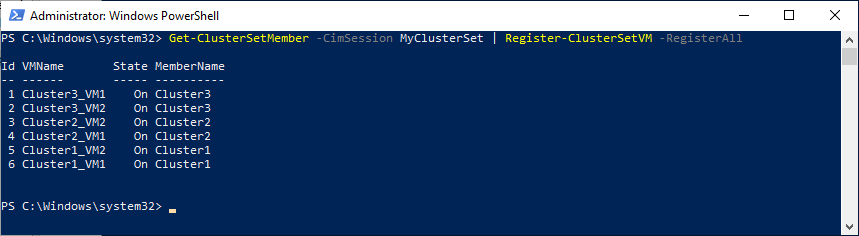
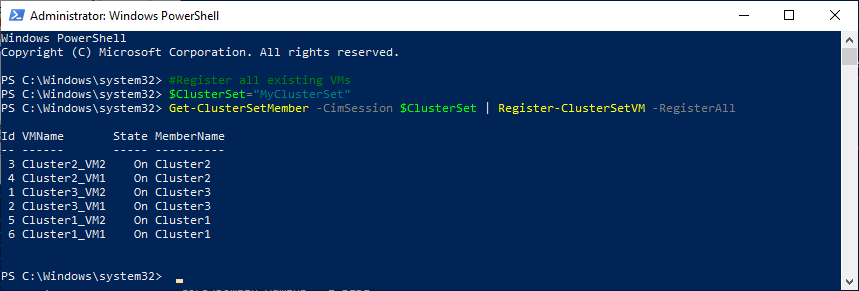
fix
Former-commit-id: d05cb51a108ba8fbc9d7df640c61561d41b1263c

diff --git a/Scenarios/S2D and Cluster Sets/readme.md b/Scenarios/S2D and Cluster Sets/readme.md
@@ -120,22 +120,24 @@ Run following code to create 3 HyperConverged clusters. Note: it's way simplifie
     }
 
 #Create 1 VM on each Volume
-    Foreach ($Cluster in $clusters){
-        $VMName="$($Cluster.Name)_VM1"
-        $VolumeName=$Cluster.VolumeNames[0]
-        New-Item -Path "\\$($Cluster.Name)\ClusterStorage$\$VolumeName\$VMName\Virtual Hard Disks" -ItemType Directory
-        Copy-Item -Path $VHDPath -Destination "\\$($Cluster.Name)\ClusterStorage$\$VolumeName\$VMName\Virtual Hard Disks\$($VMName)_Disk1.vhdx"
-        New-VM -Name $VMName -MemoryStartupBytes 256MB -Generation 2 -Path "c:\ClusterStorage\$VolumeName" -VHDPath "c:\ClusterStorage\$VolumeName\$VMName\Virtual Hard Disks\$($VMName)_Disk1.vhdx" -ComputerName $Cluster.Nodes[0]
-        Start-VM -name $VMName -ComputerName $Cluster.Nodes[0]
-        Add-ClusterVirtualMachineRole -VMName $VMName -Cluster $Cluster.Name
-
-        $VMName="$($Cluster.Name)_VM2"
-        $VolumeName=$Cluster.VolumeNames[1]
-        New-Item -Path "\\$($Cluster.Name)\ClusterStorage$\$VolumeName\$VMName\Virtual Hard Disks" -ItemType Directory
-        Copy-Item -Path $VHDPath -Destination "\\$($Cluster.Name)\ClusterStorage$\$VolumeName\$VMName\Virtual Hard Disks\$($VMName)_Disk1.vhdx"
-        New-VM -Name $VMName -MemoryStartupBytes 256MB -Generation 2 -Path "c:\ClusterStorage\$VolumeName" -VHDPath "c:\ClusterStorage\$VolumeName\$VMName\Virtual Hard Disks\$($VMName)_Disk1.vhdx" -ComputerName $Cluster.Nodes[1]
-        Start-VM -name $VMName -ComputerName $Cluster.Nodes[1]
-        Add-ClusterVirtualMachineRole -VMName $VMName -Cluster $Cluster.Name
+    if ($VHDPath){
+        Foreach ($Cluster in $clusters){
+            $VMName="$($Cluster.Name)_VM1"
+            $VolumeName=$Cluster.VolumeNames[0]
+            New-Item -Path "\\$($Cluster.Name)\ClusterStorage$\$VolumeName\$VMName\Virtual Hard Disks" -ItemType Directory
+            Copy-Item -Path $VHDPath -Destination "\\$($Cluster.Name)\ClusterStorage$\$VolumeName\$VMName\Virtual Hard Disks\$($VMName)_Disk1.vhdx"
+            New-VM -Name $VMName -MemoryStartupBytes 256MB -Generation 2 -Path "c:\ClusterStorage\$VolumeName" -VHDPath "c:\ClusterStorage\$VolumeName\$VMName\Virtual Hard Disks\$($VMName)_Disk1.vhdx" -ComputerName $Cluster.Nodes[0]
+            Start-VM -name $VMName -ComputerName $Cluster.Nodes[0]
+            Add-ClusterVirtualMachineRole -VMName $VMName -Cluster $Cluster.Name
+    
+            $VMName="$($Cluster.Name)_VM2"
+            $VolumeName=$Cluster.VolumeNames[1]
+            New-Item -Path "\\$($Cluster.Name)\ClusterStorage$\$VolumeName\$VMName\Virtual Hard Disks" -ItemType Directory
+            Copy-Item -Path $VHDPath -Destination "\\$($Cluster.Name)\ClusterStorage$\$VolumeName\$VMName\Virtual Hard Disks\$($VMName)_Disk1.vhdx"
+            New-VM -Name $VMName -MemoryStartupBytes 256MB -Generation 2 -Path "c:\ClusterStorage\$VolumeName" -VHDPath "c:\ClusterStorage\$VolumeName\$VMName\Virtual Hard Disks\$($VMName)_Disk1.vhdx" -ComputerName $Cluster.Nodes[1]
+            Start-VM -name $VMName -ComputerName $Cluster.Nodes[1]
+            Add-ClusterVirtualMachineRole -VMName $VMName -Cluster $Cluster.Name
+        }
     }
  
 ````
@@ -196,7 +198,7 @@ New-Cluster -Name $ClusterName -Node $ClusterNodes -StaticAddress $ClusterIP
 
 ![](/Scenarios/S2D%20and%20Cluster%20Sets/Screenshots/MgmtClusterCreated.png)
 
-And then we will create Cluster Set Master on "MgmtCluster"
+And now let's create Cluster Set Master on "MgmtCluster"
 
 ````PowerShell
 New-ClusterSet -name "MyClusterSet" -NamespaceRoot "MC-SOFS" -CimSession "MgmtCluster" -StaticAddress "10.0.0.221"
@@ -249,13 +251,15 @@ get-clustersetmember -CimSession MyClusterSet
 Now we will move all VM's to cluster set namespace. Since Storage Live Migration does not work as files already exist in destination, we can either move files to another volume or unregister and register again with following trick.
 
 ````PowerShell
+    $ClusterSet="MyClusterSet"
+    $ClusterSetSOFS="\\MC-SOFS"
 #Grab all VMs from all nodes
-    $VMs=Get-VM -CimSession (Get-ClusterSetNode -CimSession MyClusterSet).Name
+    $VMs=Get-VM -CimSession (Get-ClusterSetNode -CimSession $ClusterSet).Name
 
 <# does not work
 #perform storage migration to \\MC-SOFS
 foreach ($VM in $VMs){
-    $NewPath=($vm.path).Replace("c:\ClusterStorage\","\\MC-SOFS\")
+    $NewPath=($vm.path).Replace("c:\ClusterStorage\",$ClusterSetSOFS)
     $VM | Move-VMStorage -DestinationStoragePath $NewPath
 }
 #>
@@ -281,15 +285,15 @@ foreach ($VM in $VMs){
     }
 
 #Import again, but replace path to \\MC-SOFS
-    Invoke-Command -ComputerName (get-clustersetmember -CimSession MyClusterSet).ClusterName -ScriptBlock{
+    Invoke-Command -ComputerName (get-clustersetmember -CimSession $ClusterSet).ClusterName -ScriptBlock{
         get-childitem c:\ClusterStorage -Recurse | Where-Object {($_.extension -eq '.vmcx' -and $_.directory -like '*Virtual Machines*') -or ($_.extension -eq '.xml' -and $_.directory -like '*Virtual Machines*')} | ForEach-Object -Process {
-            $Path=$_.FullName.Replace("C:\ClusterStorage\","\\MC-SOFS\")
+            $Path=$_.FullName.Replace("C:\ClusterStorage",$using:ClusterSetSOFS)
             Import-VM -Path $Path
         }
     }
 
 #Add VMs as Highly available and Start
-    $ClusterSetNodes=Get-ClusterSetNode -CimSession MyClusterSet
+    $ClusterSetNodes=Get-ClusterSetNode -CimSession $ClusterSet
     foreach ($ClusterSetNode in $ClusterSetNodes){
         $VMs=Get-VM -CimSession $ClusterSetNode.Name
         $VMs.Name | ForEach-Object {Add-ClusterVirtualMachineRole -VMName $_ -Cluster $ClusterSetNode.Member}
@@ -346,7 +350,6 @@ Result (on each node)
 
 ![](/Scenarios/S2D%20and%20Cluster%20Sets/Screenshots/DelegationSet.png)
 
-
 ### add Management cluster computer account to each node local Administrators group
 
 And the last step is to add MyClusterSet machine account into local admin group.
@@ -374,7 +377,9 @@ Invoke-Command -ComputerName (Get-ClusterSetNode -CimSession $ClusterSet).Name -
 ### Register all existing VMs
 
 ````PowerShell
-Get-ClusterSetMember -CimSession MyClusterSet | Register-ClusterSetVM -RegisterAll -CimSession <Cluster_Set_name>
+#Register all existing VMs
+$ClusterSet="MyClusterSet"
+Get-ClusterSetMember -CimSession $ClusterSet | Register-ClusterSetVM -RegisterAll
  
 ````
 
